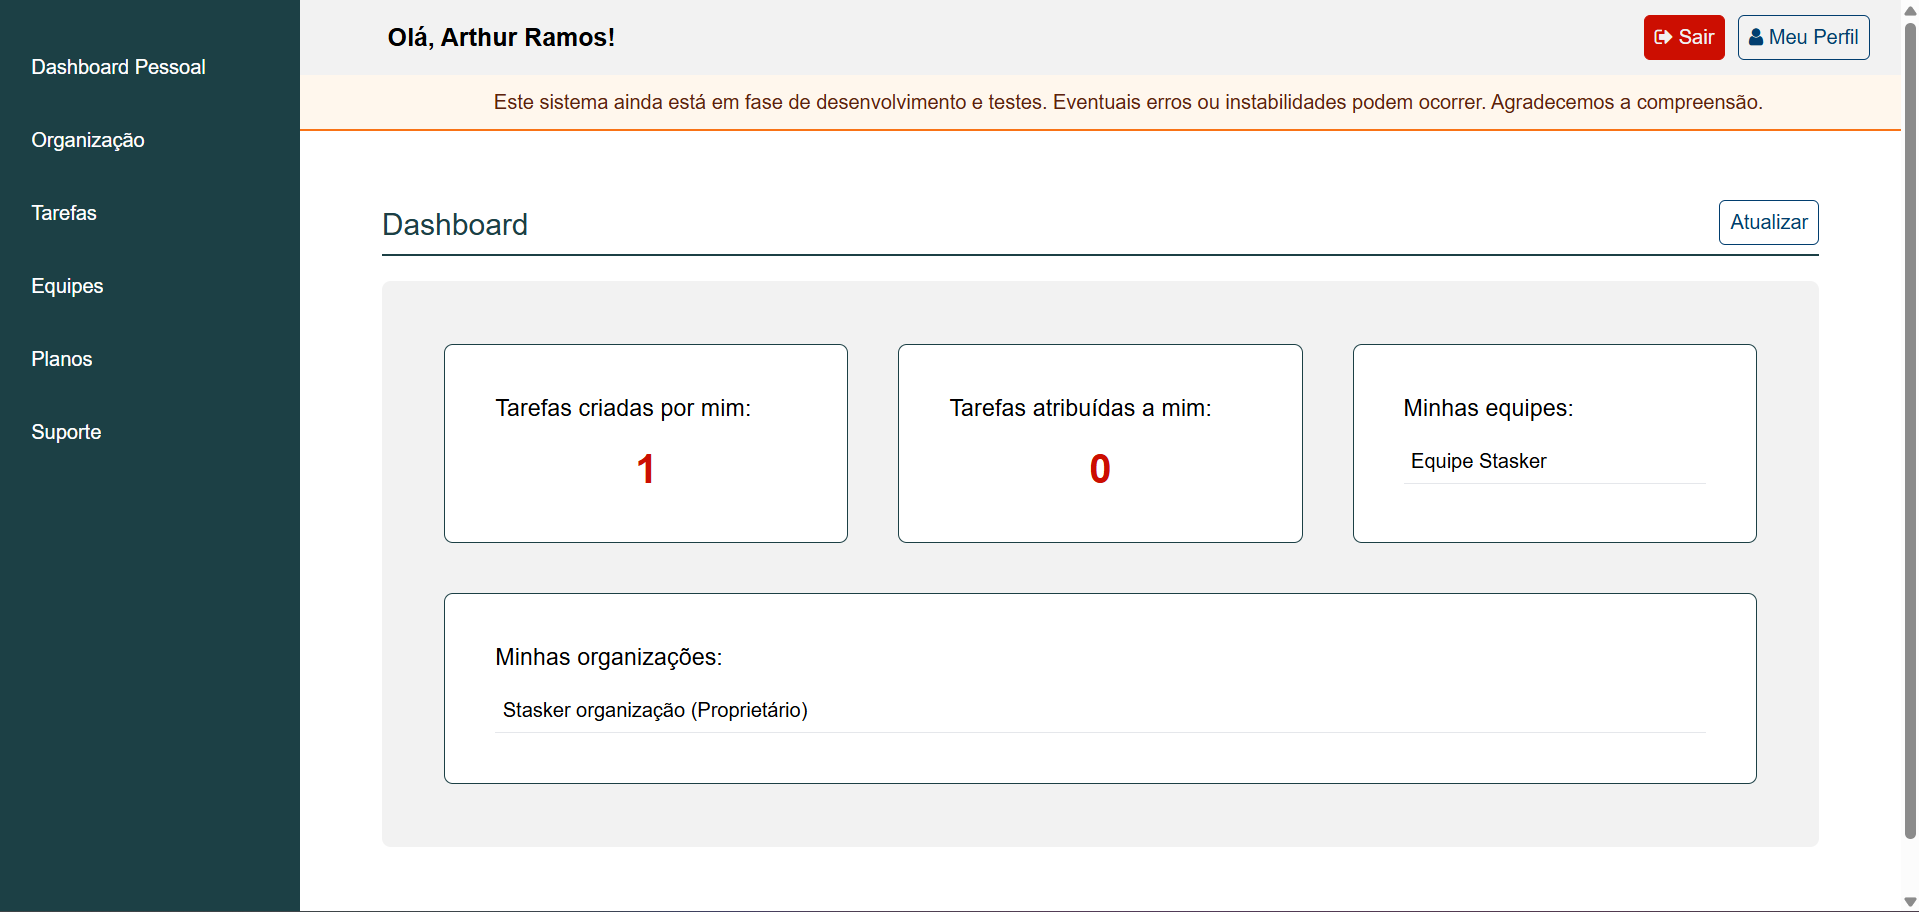
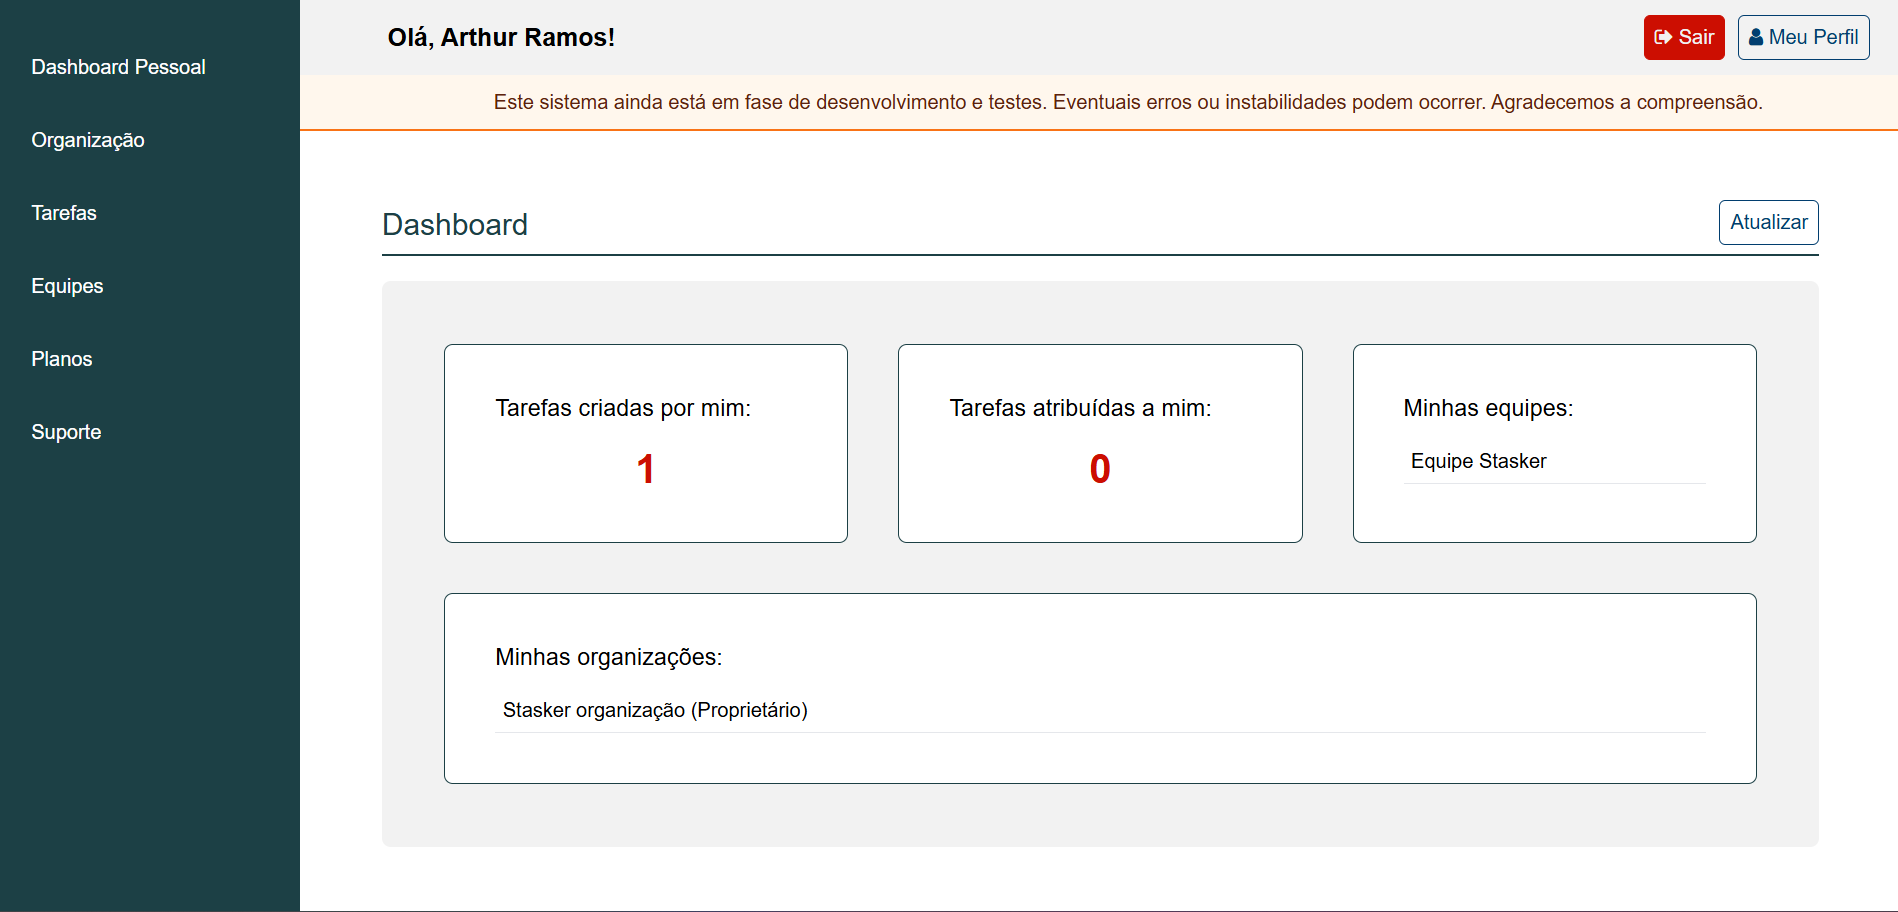
update images

diff --git a/README.md b/README.md
@@ -72,6 +72,13 @@ O **Stasker** está disponível na internet, o acesso pode ser realizado ao clic
 ## Demonstração do Sistema
 <img src="/docs/images/tela_login.png" alt="Tela de login"></img>
 <img src="/docs/images/dashboard_pessoal.png" alt="Dashboard pessoal"></img>
+<img src="/docs/images/visualizar_organizacao.png" alt="Visualização da organização"></img>
+<img src="/docs/images/convidar_participantes.png" alt="Convidar participantes"></img>
+<img src="/docs/images/visualizar_convite.png" alt="Visualizar convite"></img>
+<img src="/docs/images/bloqueador_plano_gratuito.png" alt="Bloqueado de plano"></img>
+<img src="/docs/images/visualizar_planos.png.png" alt="Visualizar planos"></img>
+<img src="/docs/images/suporte_usuario.png" alt="Suporte"></img>
+<img src="/docs/images/exemplo_email.png" alt="E-mai suporte"></img>
 
 ## Licença
 - Uso comercial não permitido
